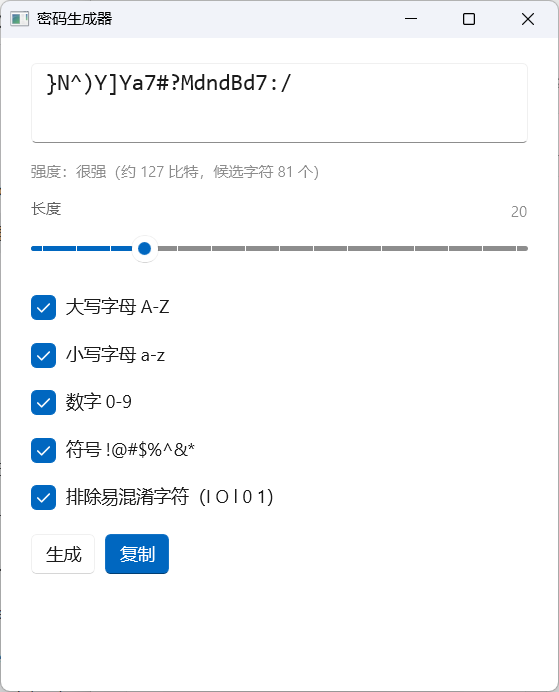
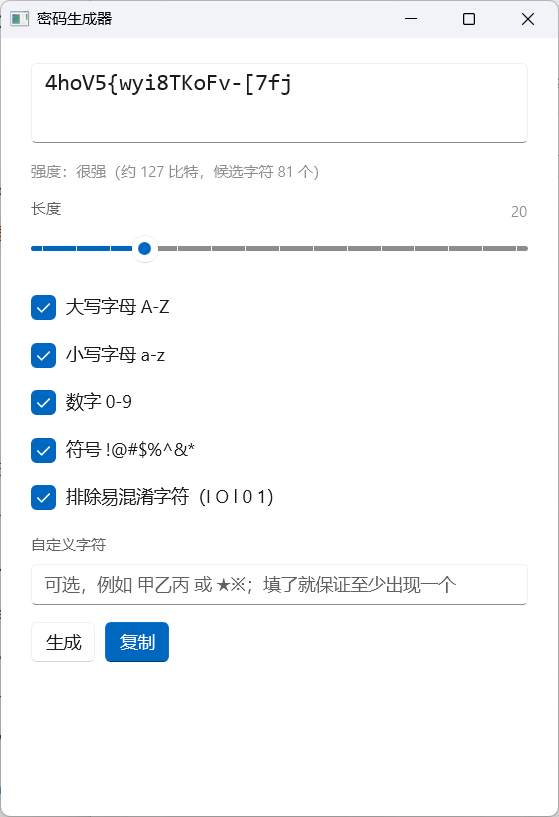
生成器支持自定义字符

diff --git a/src/PwdMgr.App/Views/GeneratorWindow.xaml b/src/PwdMgr.App/Views/GeneratorWindow.xaml
@@ -11,6 +11,7 @@
             <RowDefinition Height="Auto" />
             <RowDefinition Height="Auto" />
             <RowDefinition Height="Auto" />
+            <RowDefinition Height="Auto" />
             <RowDefinition Height="*" />
         </Grid.RowDefinitions>
 
@@ -49,7 +50,17 @@
             <CheckBox x:Name="AmbiguousCheck" Content="排除易混淆字符（I O l 0 1）" Checked="OnOptionChanged" Unchecked="OnOptionChanged" />
         </StackPanel>
 
-        <StackPanel Grid.Row="4" Orientation="Horizontal" Spacing="8">
+        <StackPanel Grid.Row="4" Spacing="4">
+            <TextBlock Text="自定义字符" Style="{StaticResource FieldLabelStyle}" />
+            <TextBox
+                x:Name="CustomCharsBox"
+                AutomationProperties.AutomationId="CustomCharsBox"
+                PlaceholderText="可选，例如 甲乙丙 或 ★※；填了就保证至少出现一个"
+                MaxLength="64"
+                TextChanged="OnCustomCharsChanged" />
+        </StackPanel>
+
+        <StackPanel Grid.Row="5" Orientation="Horizontal" Spacing="8">
             <Button
                 x:Name="RegenerateButton"
                 AutomationProperties.AutomationId="RegenerateButton"
@@ -64,7 +75,7 @@
         </StackPanel>
 
         <InfoBar
-            Grid.Row="5"
+            Grid.Row="6"
             x:Name="StatusBar"
             Severity="Success"
             IsOpen="False"

diff --git a/src/PwdMgr.Core/Security/PasswordGenerator.cs b/src/PwdMgr.Core/Security/PasswordGenerator.cs
@@ -40,7 +40,7 @@ public static class PasswordGenerator
         var pools = BuildPools(options);
         if (pools.Count == 0)
         {
-            throw new ArgumentException("至少要选择一种字符类型。", nameof(options));
+            throw new ArgumentException("至少要选择一种字符类型，或填写自定义字符。", nameof(options));
         }
 
         if (options.Length < pools.Count)
@@ -68,11 +68,11 @@ public static class PasswordGenerator
         return new string(characters);
     }
 
-    /// <summary>当前选项下单个字符的候选池大小。</summary>
+    /// <summary>当前选项下单个字符的候选池大小（去重后，自定义字符与内置字符重叠时不重复计数）。</summary>
     public static int PoolSize(PasswordOptions options)
     {
         ArgumentNullException.ThrowIfNull(options);
-        return BuildPools(options).Sum(pool => pool.Length);
+        return BuildPools(options).SelectMany(pool => pool).Distinct().Count();
     }
 
     /// <summary>熵值（比特）：长度 × log2(候选池大小)。</summary>
@@ -94,12 +94,13 @@ public static class PasswordGenerator
     /// <summary>按选项返回启用的字符池；排除易混字符时从每个池里去掉它们。</summary>
     public static IReadOnlyList<string> BuildPools(PasswordOptions options)
     {
-        var pools = new List<string>(4);
+        var pools = new List<string>(5);
 
         Add(Include(options.IncludeUppercase, Uppercase));
         Add(Include(options.IncludeLowercase, Lowercase));
         Add(Include(options.IncludeDigits, Digits));
         Add(Include(options.IncludeSymbols, Symbols));
+        Add(NormalizeCustom(options.CustomCharacters));
 
         return pools;
 
@@ -120,6 +121,33 @@ public static class PasswordGenerator
 
             return options.ExcludeAmbiguous ? RemoveAmbiguous(pool) : pool;
         }
+    }
+
+    /// <summary>自定义字符：去掉控制字符与重复项，其余原样保留（不受“排除易混字符”影响）。</summary>
+    private static string NormalizeCustom(string custom)
+    {
+        if (string.IsNullOrEmpty(custom))
+        {
+            return string.Empty;
+        }
+
+        var builder = new StringBuilder(custom.Length);
+        var seen = new HashSet<char>();
+
+        foreach (var character in custom)
+        {
+            if (char.IsControl(character))
+            {
+                continue;
+            }
+
+            if (seen.Add(character))
+            {
+                builder.Append(character);
+            }
+        }
+
+        return builder.ToString();
     }
 
     private static string RemoveAmbiguous(string pool)

diff --git a/tests/PwdMgr.Core.Tests/PasswordGeneratorTests.cs b/tests/PwdMgr.Core.Tests/PasswordGeneratorTests.cs
@@ -84,6 +84,63 @@ public sealed class PasswordGeneratorTests
     }
 
     [Fact]
+    public void Generate_WithCustomCharacters_AlwaysContainsAtLeastOne()
+    {
+        var options = new PasswordOptions { Length = 16, CustomCharacters = "★※" };
+
+        for (var attempt = 0; attempt < 50; attempt++)
+        {
+            var password = PasswordGenerator.Generate(options);
+            Assert.Contains(password, character => character is '★' or '※');
+        }
+    }
+
+    [Fact]
+    public void Generate_WithOnlyCustomCharacters_UsesOnlyThem()
+    {
+        var options = new PasswordOptions
+        {
+            Length = 12,
+            IncludeUppercase = false,
+            IncludeLowercase = false,
+            IncludeDigits = false,
+            IncludeSymbols = false,
+            CustomCharacters = "甲乙丙",
+        };
+
+        var password = PasswordGenerator.Generate(options);
+
+        Assert.All(password, character => Assert.Contains(character, "甲乙丙"));
+    }
+
+    [Fact]
+    public void Generate_CustomCharactersAreDeduplicated()
+    {
+        var options = new PasswordOptions
+        {
+            Length = 12,
+            IncludeUppercase = false,
+            IncludeLowercase = false,
+            IncludeDigits = false,
+            IncludeSymbols = false,
+            CustomCharacters = "★★※※",
+        };
+
+        Assert.Equal(2, PasswordGenerator.PoolSize(options));
+        Assert.Equal(2, PasswordGenerator.BuildPools(options)[0].Length);
+    }
+
+    [Fact]
+    public void Generate_CustomCharactersIgnoreAmbiguousFilter()
+    {
+        var options = new PasswordOptions { Length = 16, CustomCharacters = "IOl01", ExcludeAmbiguous = true };
+
+        var password = PasswordGenerator.Generate(options);
+
+        Assert.Contains(password, character => character is 'I' or 'O' or 'l' or '0' or '1');
+    }
+
+    [Fact]
     public void Generate_WithoutAnyClass_Throws()
     {
         var options = new PasswordOptions

diff --git a/src/PwdMgr.App/Views/GeneratorWindow.xaml.cs b/src/PwdMgr.App/Views/GeneratorWindow.xaml.cs
@@ -16,9 +16,9 @@ public sealed partial class GeneratorWindow : Window
         InitializeComponent();
 
         Title = "密码生成器";
-        AppWindow.Resize(new SizeInt32(560, 640));
-        AppWindow.Move(CenteredPosition(560, 640));
-        WindowHelper.SetMinimumSize(this, 460, 560);
+        AppWindow.Resize(new SizeInt32(560, 740));
+        AppWindow.Move(CenteredPosition(560, 740));
+        WindowHelper.SetMinimumSize(this, 460, 660);
 
         _isLoading = true;
         LengthSlider.Minimum = PasswordGenerator.MinLength;
@@ -34,6 +34,7 @@ public sealed partial class GeneratorWindow : Window
         DigitsCheck.IsChecked = options.IncludeDigits;
         SymbolsCheck.IsChecked = options.IncludeSymbols;
         AmbiguousCheck.IsChecked = options.ExcludeAmbiguous;
+        CustomCharsBox.Text = options.CustomCharacters;
         _isLoading = false;
 
         Generate();
@@ -61,7 +62,16 @@ public sealed partial class GeneratorWindow : Window
         IncludeDigits = DigitsCheck.IsChecked == true,
         IncludeSymbols = SymbolsCheck.IsChecked == true,
         ExcludeAmbiguous = AmbiguousCheck.IsChecked == true,
+        CustomCharacters = CustomCharsBox.Text,
     };
+
+    private void OnCustomCharsChanged(object sender, TextChangedEventArgs e)
+    {
+        if (!_isLoading)
+        {
+            ApplySettings();
+        }
+    }
 
     /// <summary>规则改动只更新设置与提示，不重新生成；点“生成”才按新规则生成。</summary>
     private void ApplySettings()

diff --git a/src/PwdMgr.Core/Security/PasswordOptions.cs b/src/PwdMgr.Core/Security/PasswordOptions.cs
@@ -16,4 +16,7 @@ public sealed record PasswordOptions
 
     /// <summary>排除容易混淆的字符（I、O、l、0、1）。</summary>
     public bool ExcludeAmbiguous { get; init; } = true;
+
+    /// <summary>额外加入的字符（可重复出现；会自动去重）。</summary>
+    public string CustomCharacters { get; init; } = string.Empty;
 }

diff --git a/docs/技术方案-v1.md b/docs/技术方案-v1.md
@@ -662,3 +662,16 @@ M5 交付：备份、自检、从备份恢复、错误提示与互斥提示。
 - 点“生成”（按钮文字由“重新生成”改为“生成”）才按当前规则生成新密码，并清掉上面那句提示。
 - 打开窗口时仍会先生成一个，方便直接复制。
 - 验证：UI 自动化确认改滑块、改勾选项后密码保持不变；点“生成”后密码变化且长度等于新设置（30）。
+
+---
+
+## 27. 生成器支持自定义字符
+
+需求：允许在生成规则里额外加入自定义字符。
+
+- PasswordOptions 新增 CustomCharacters（默认空）。PasswordGenerator 把它当成第五个字符池：去重、忽略控制字符，但**不受“排除易混字符”影响**（用户主动写的 I/O/l/0/1 会保留）。
+- 因为每个启用的池至少取一个字符，所以只要填了自定义字符，生成的密码里一定至少出现一个；池之间允许重叠，熵值按去重后的并集计算，避免高估。
+- 全部内置类别都取消勾选、只填自定义字符时也能生成（此时密码完全由自定义字符组成）。
+- 界面：生成器窗口新增“自定义字符”输入框（最长 64 字符，提示“填了就保证至少出现一个”），改动同样遵循“不立即重算、点生成才应用”。窗口高度相应调整为 560×740，最小 460×660。
+- 测试：新增 4 个用例（必含自定义字符、仅自定义字符、去重、易混字符不被过滤），Core 测试共 **75** 个通过。
+- 验证：UI 自动化——改自定义字符后密码不变；点“生成”后新密码包含 ★ 或 ※，长度仍是设置的 30。
